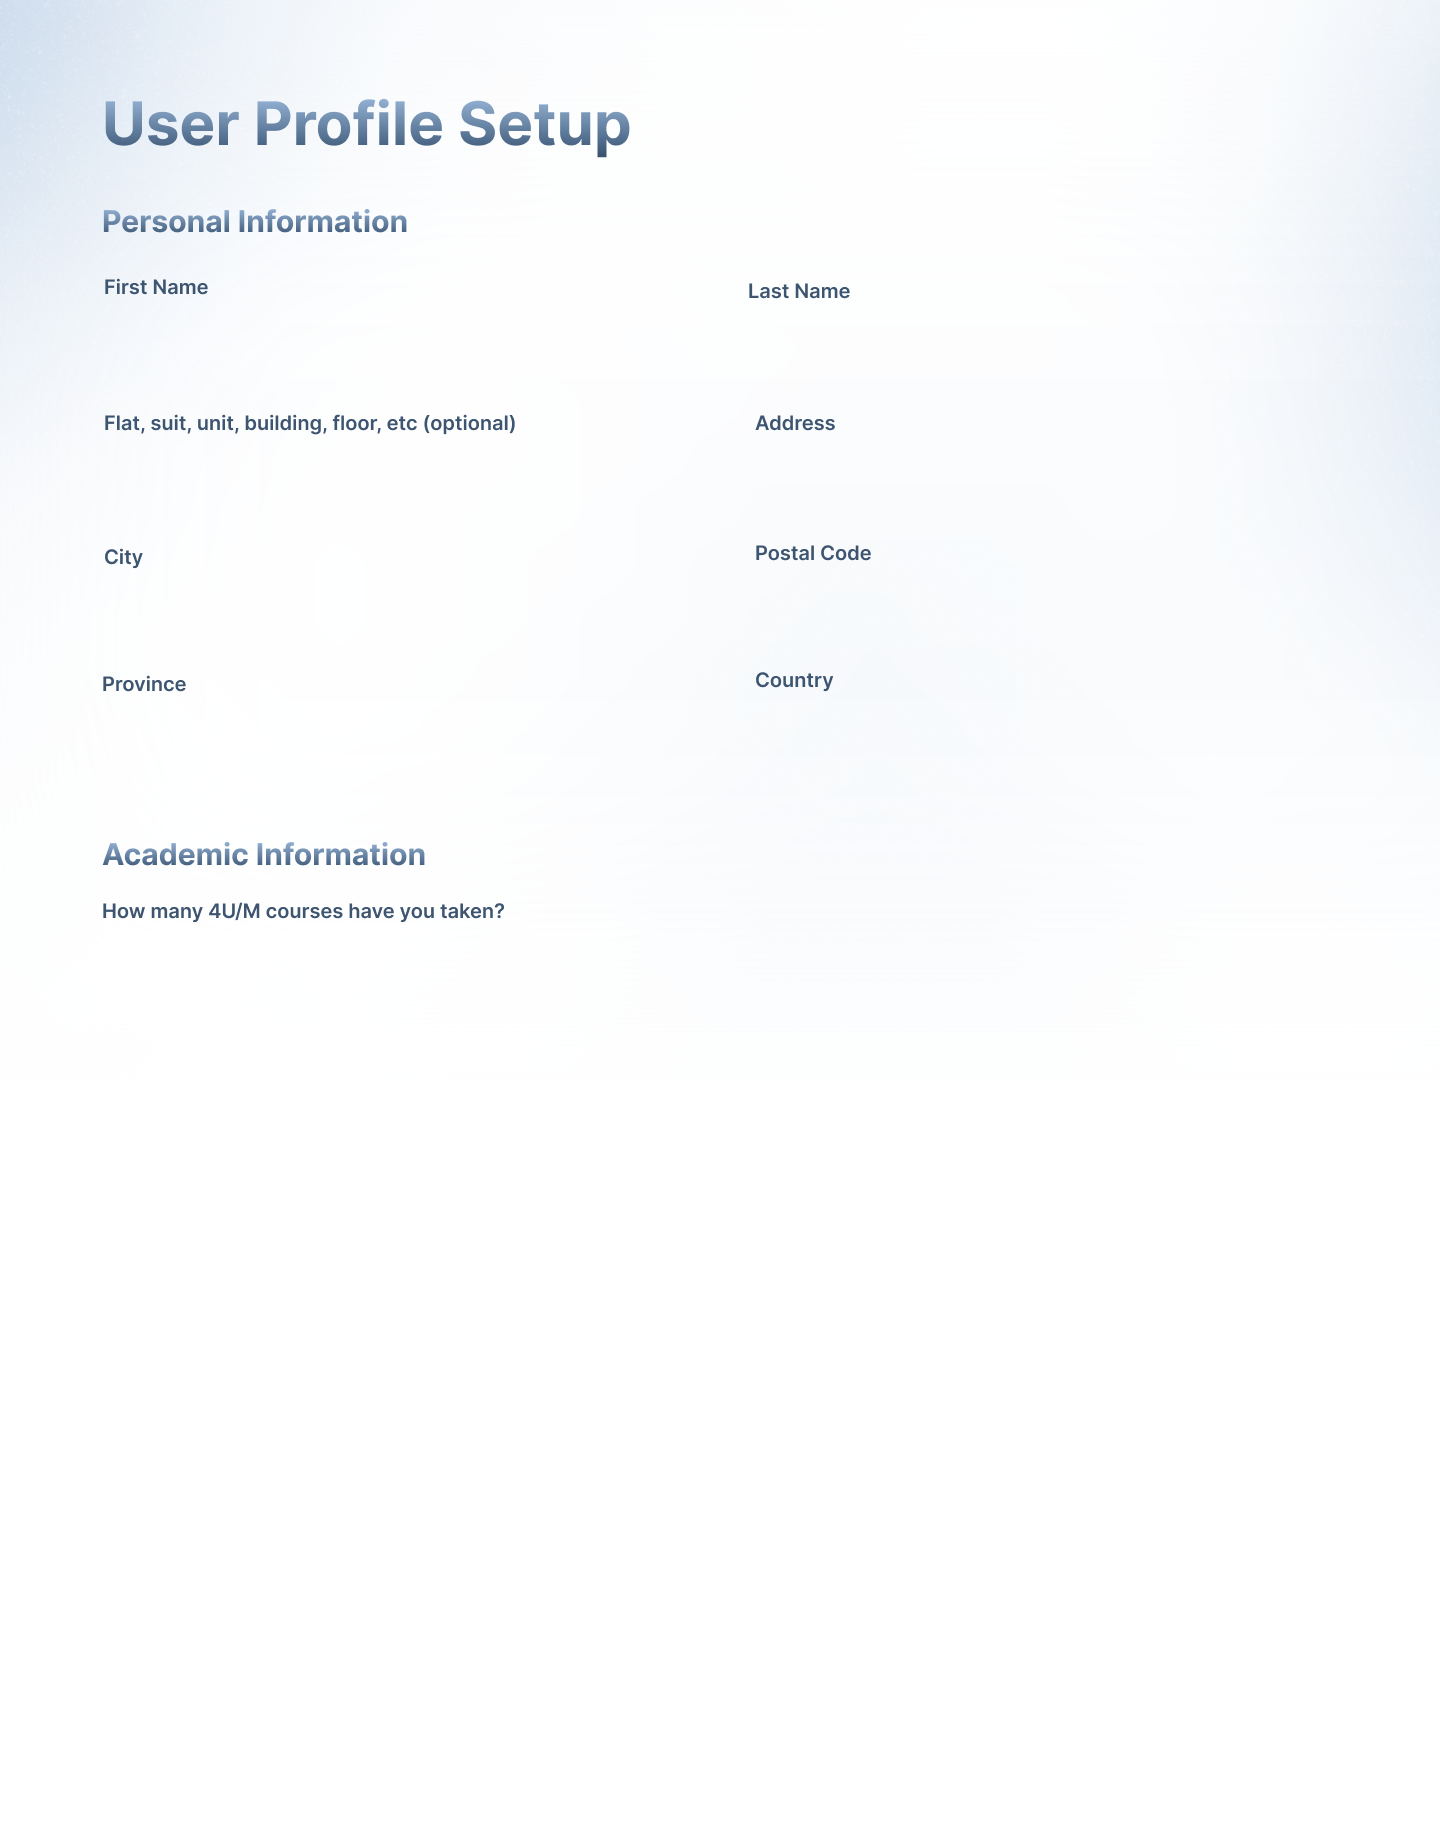
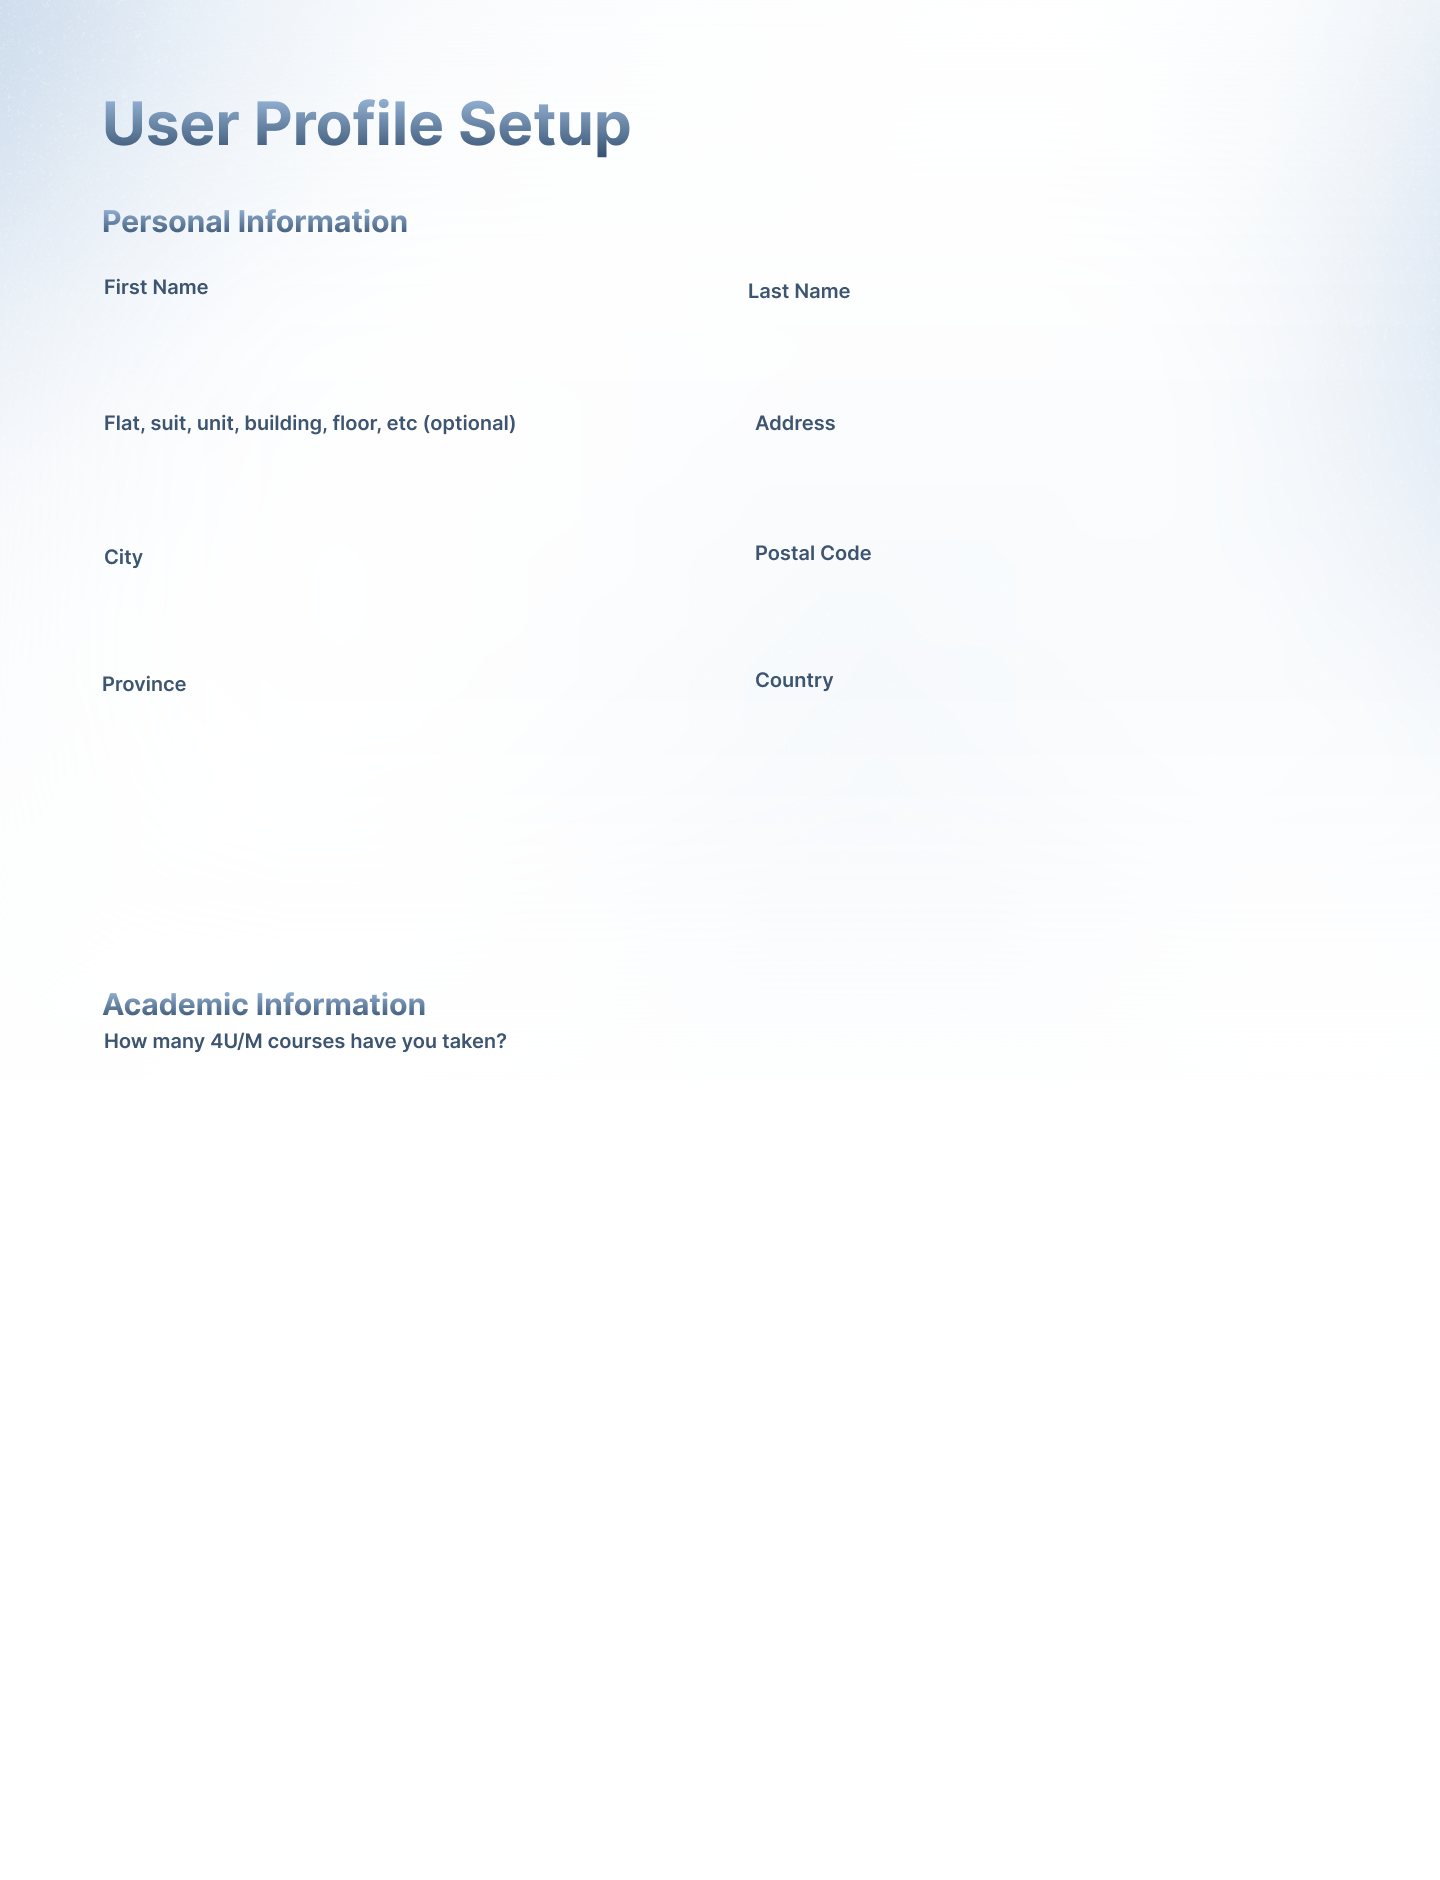
working course data

diff --git a/UniVerse/src/view/UserSetUpFrame.java b/UniVerse/src/view/UserSetUpFrame.java
@@ -2,11 +2,13 @@ package view;
 
 import java.awt.BorderLayout;
 import java.awt.Color;
+import java.awt.Component;
 import java.awt.Dimension;
 import java.awt.Font;
 import java.awt.GridLayout;
 import java.awt.event.ActionEvent;
 import java.awt.event.ActionListener;
+import java.util.ArrayList;
 import java.util.List;
 
 import javax.swing.ImageIcon;
@@ -18,6 +20,8 @@ import javax.swing.JOptionPane;
 import javax.swing.JPanel;
 import javax.swing.JScrollPane;
 import javax.swing.JTextField;
+
+import model.StudentData;
 
 public class UserSetUpFrame extends JFrame implements ActionListener {
 
@@ -33,12 +37,14 @@ public class UserSetUpFrame extends JFrame implements ActionListener {
 
 	// fields for user academic information
 
-    private JTextField numCoursesField;
-    private JButton confirmBtn;
-    private JButton submitCoursesBtn;
-    private JButton getStartedBtn;
-    private JLayeredPane layeredPane;
-    private JTextField lastGradeField; //used to track last grade field to add button dynamically
+	private JTextField numCoursesField;
+	private JButton confirmBtn;
+	private JButton submitCoursesBtn;
+	private JButton getStartedBtn;
+	private JLayeredPane layeredPane;
+	private JTextField courseCodeField;
+	private JTextField gradeField;
+	private JTextField lastGradeField; // used to track last grade field to add button dynamically
 
 	public UserSetUpFrame() {
 		super("User Set Up");
@@ -46,7 +52,7 @@ public class UserSetUpFrame extends JFrame implements ActionListener {
 		setSize(1440, 900);
 
 		// set the background image
-		ImageIcon backgroundImg = new ImageIcon("images/userProfileSetupBg.png");
+		ImageIcon backgroundImg = new ImageIcon("images/userProfileSetupBg2.png");
 		layeredPane = new JLayeredPane();
 		layeredPane.setPreferredSize(new Dimension(backgroundImg.getIconWidth(), backgroundImg.getIconHeight()));
 
@@ -55,8 +61,7 @@ public class UserSetUpFrame extends JFrame implements ActionListener {
 		Dimension imageSize = new Dimension(backgroundImg.getIconWidth(), backgroundImg.getIconHeight());
 		imageLabel.setPreferredSize(imageSize);
 
-		
-		//--- Personal Info
+		// --- Personal Info
 		// add first name text field
 		firstNameField = new JTextField(); // instantiate the JTextField
 		firstNameField.setBounds(100, 300, 500, 80);
@@ -112,26 +117,22 @@ public class UserSetUpFrame extends JFrame implements ActionListener {
 		countryField.addActionListener(this);
 		countryField.setBackground(Color.LIGHT_GRAY);
 		countryField.setFont(new Font("Arial", Font.PLAIN, 23));
-		
-		
-		//--- Academic Info
+
+		// --- Academic Info
 		numCoursesField = new JTextField();
-		numCoursesField.setBounds(100, 930, 200, 80);;
+		numCoursesField.setBounds(100, 930, 200, 80);
 		numCoursesField.addActionListener(this);
 		numCoursesField.setBackground(Color.LIGHT_GRAY);
 		numCoursesField.setFont(new Font("Arial", Font.PLAIN, 23));
 
-		
-        ImageIcon confirmIcon = new ImageIcon("images/confirmBtn.png");
-        confirmBtn = new JButton(confirmIcon);
-        confirmBtn.setOpaque(false);
-        confirmBtn.setContentAreaFilled(false);
-        confirmBtn.setBorderPainted(false);
-        confirmBtn.setBounds(320, 940, confirmIcon.getIconWidth(), confirmIcon.getIconHeight());
-        confirmBtn.addActionListener(this);
-		
-		
-		
+		ImageIcon confirmIcon = new ImageIcon("images/confirmBtn.png");
+		confirmBtn = new JButton(confirmIcon);
+		confirmBtn.setOpaque(false);
+		confirmBtn.setContentAreaFilled(false);
+		confirmBtn.setBorderPainted(false);
+		confirmBtn.setBounds(320, 940, confirmIcon.getIconWidth(), confirmIcon.getIconHeight());
+		confirmBtn.addActionListener(this);
+
 		// add components to the layered pane
 		layeredPane.add(imageLabel, Integer.valueOf(0));
 		layeredPane.add(firstNameField, Integer.valueOf(1));
@@ -144,7 +145,6 @@ public class UserSetUpFrame extends JFrame implements ActionListener {
 		layeredPane.add(countryField, Integer.valueOf(1));
 		layeredPane.add(numCoursesField, Integer.valueOf(1));
 		layeredPane.add(confirmBtn, Integer.valueOf(1));
-		
 
 		// add layered pane to scroll pane
 		JScrollPane jsp = new JScrollPane(layeredPane);
@@ -156,92 +156,142 @@ public class UserSetUpFrame extends JFrame implements ActionListener {
 
 		// set frame visible
 		setVisible(true);
-		
-
 
 	}
 
-    @Override
-    public void actionPerformed(ActionEvent e) {
-        if (e.getSource() == confirmBtn) {
-            try {
-                int numCourses = Integer.parseInt(numCoursesField.getText().trim());
-                createCourseFields(numCourses);
-            } catch (NumberFormatException ex) {
-                JOptionPane.showMessageDialog(this, "Please enter a valid number.");
-            }
-        }
-        
-        else if(e.getSource() == getStartedBtn) {
-        	//get the data from text fields
-        	String dataFirstName = firstNameField.getText().trim();
-           	String dataLastName = lastNameField.getText().trim();
-           	String dataUnit = unitField.getText().trim();
-           	String dataAddress = addressField.getText().trim();
-           	String dataCity = cityField.getText().trim();
-           	String dataPostalCode = postalCodeField.getText().trim();
-           	String dataProvince = provinceField.getText().trim();
-           	String dataCountry = countryField.getText().trim();
-        	
+	private List<StudentData> studentDataList = new ArrayList<>();
 
+	private void collectAndDisplayCourseData() {
+		// Collect and display course data
+		StudentData studentData = new StudentData();
+		JTextField courseCodeField = null;
+		for (Component component : layeredPane.getComponentsInLayer(Integer.valueOf(1))) {
+			if (component instanceof JTextField) {
+				JTextField textField = (JTextField) component;
+				String text = textField.getText().trim();
 
-        	
-        	
-        	//open home frame and close current frame
-        	new HomeFrame();
-        	dispose();
-        }
-    }
+				if (!text.isEmpty()) { // Check if the field is not empty
+					if (courseCodeField == null) {
+						// This is a course code field
+						studentData.setCourseCode(text);
+						courseCodeField = textField;
+					} else {
+						// pair it with the corresponding course code
+						studentData.setGrade(text);
 
+						// Add the studentData object to the list
+						studentDataList.add(studentData);
 
-	   private void createCourseFields(int numCourses) {
+						System.out.println(
+								"Course Code: " + studentData.getCourseCode() + ", Grade: " + studentData.getGrade());
 
-	        // add text fields for course code and grade dynamically
-	        for (int i = 0; i < numCourses; i++) {
-	            JTextField courseCodeField = new JTextField();
-	            JTextField gradeField = new JTextField();
+						// reset the courseCodeField for the next pair
+						courseCodeField = null;
+						studentData = new StudentData(); // Create a new StudentData object for the next pair
+					}
+				}
+			}
+		}
 
-	            int xCoordinate = 100;
-	            int yCoordinate = 1100 + i * 100; //create even spacing
+		// debug
+		System.out.println("Student Data List:");
+		for (StudentData data : studentDataList) {
+			System.out.println("Course Code: " + data.getCourseCode() + ", Grade: " + data.getGrade());
+		}
 
-	            JLabel courseCodeLabel = new JLabel("Course Code:");
-	            courseCodeLabel.setFont(new Font("Arial", Font.PLAIN, 20));
-	            courseCodeLabel.setBounds(xCoordinate, yCoordinate, 250, 50);
-	            layeredPane.add(courseCodeLabel, Integer.valueOf(1));
+		dispose();
+		// Open your next frame or perform any other necessary actions
+		new HomeFrame();
+	}
 
-	            courseCodeField.setBounds(xCoordinate + 150, yCoordinate, 200, 50);
-	            layeredPane.add(courseCodeField, Integer.valueOf(1));
+	@Override
+	public void actionPerformed(ActionEvent e) {
+		if (e.getSource() == confirmBtn) {
+			try {
+				int numCourses = Integer.parseInt(numCoursesField.getText().trim());
+				createCourseFields(numCourses);
+			} catch (NumberFormatException ex) {
+				JOptionPane.showMessageDialog(this, "Please enter a valid number.");
+			}
+		}
 
-	            JLabel gradeLabel = new JLabel("Grade:");
-	            gradeLabel.setFont(new Font("Arial", Font.PLAIN, 20));
-	            gradeLabel.setBounds(xCoordinate + 350, yCoordinate, 250, 50);
-	            layeredPane.add(gradeLabel, Integer.valueOf(1));
+		else if (e.getSource() == getStartedBtn) {
+			// get the data from text fields
+			String dataFirstName = firstNameField.getText().trim();
+			String dataLastName = lastNameField.getText().trim();
+			String dataUnit = unitField.getText().trim();
+			String dataAddress = addressField.getText().trim();
+			String dataCity = cityField.getText().trim();
+			String dataPostalCode = postalCodeField.getText().trim();
+			String dataProvince = provinceField.getText().trim();
+			String dataCountry = countryField.getText().trim();
 
-	            gradeField.setBounds(xCoordinate + 500, yCoordinate, 200, 50);
-	            layeredPane.add(gradeField, Integer.valueOf(1));
-	            
-	            lastGradeField = gradeField;
-	        }
-	        // place continue button below the last text field
-	        if (lastGradeField != null) {
-	            int buttonYCoordinate = lastGradeField.getY() + lastGradeField.getHeight() + 15; //15 is the spacing 
-	            ImageIcon getStartedIcon = new ImageIcon("images/getStartedBtn.png");
-	            getStartedBtn = new JButton(getStartedIcon);
-	            getStartedBtn.setOpaque(false);
-	            getStartedBtn.setContentAreaFilled(false);
-	            getStartedBtn.setBorderPainted(false);
-	            getStartedBtn.setBounds(320, buttonYCoordinate, getStartedIcon.getIconWidth(), getStartedIcon.getIconHeight());
-	            getStartedBtn.addActionListener(this);
-	            layeredPane.add(getStartedBtn, Integer.valueOf(1));
-	        }
+			// debugging
+			System.out.println("User Data:");
+			System.out.println("First Name: " + dataFirstName);
+			System.out.println("Last Name: " + dataLastName);
+			System.out.println("Unit: " + dataUnit);
+			System.out.println("Address: " + dataAddress);
+			System.out.println("City: " + dataCity);
+			System.out.println("Postal Code: " + dataPostalCode);
+			System.out.println("Province: " + dataProvince);
+			System.out.println("Country: " + dataCountry);
 
-	        // repaint the frame
-	        revalidate();
-	        repaint();
-	    }
+			collectAndDisplayCourseData();
 
+			// open home frame and close current frame
+			new HomeFrame();
+			dispose();
+		}
+	}
 
-	    
+	private void createCourseFields(int numCourses) {
+
+		// add text fields for course code and grade dynamically
+		for (int i = 0; i < numCourses; i++) {
+			courseCodeField = new JTextField();
+			gradeField = new JTextField();
+
+			int xCoordinate = 100;
+			int yCoordinate = 1100 + i * 100; // create even spacing
+
+			JLabel courseCodeLabel = new JLabel("Course Code:");
+			courseCodeLabel.setFont(new Font("Arial", Font.PLAIN, 20));
+			courseCodeLabel.setBounds(xCoordinate, yCoordinate, 250, 50);
+			layeredPane.add(courseCodeLabel, Integer.valueOf(1));
+
+			courseCodeField.setBounds(xCoordinate + 150, yCoordinate, 200, 50);
+			layeredPane.add(courseCodeField, Integer.valueOf(1));
+
+			JLabel gradeLabel = new JLabel("Grade:");
+			gradeLabel.setFont(new Font("Arial", Font.PLAIN, 20));
+			gradeLabel.setBounds(xCoordinate + 350, yCoordinate, 250, 50);
+			layeredPane.add(gradeLabel, Integer.valueOf(1));
+
+			gradeField.setBounds(xCoordinate + 500, yCoordinate, 200, 50);
+			layeredPane.add(gradeField, Integer.valueOf(1));
+
+			lastGradeField = gradeField;
+		}
+		// place continue button below the last text field
+		if (lastGradeField != null) {
+			int buttonYCoordinate = lastGradeField.getY() + lastGradeField.getHeight() + 15; // 15 is the spacing
+			ImageIcon getStartedIcon = new ImageIcon("images/getStartedBtn.png");
+			getStartedBtn = new JButton(getStartedIcon);
+			getStartedBtn.setOpaque(false);
+			getStartedBtn.setContentAreaFilled(false);
+			getStartedBtn.setBorderPainted(false);
+			getStartedBtn.setBounds(320, buttonYCoordinate, getStartedIcon.getIconWidth(),
+					getStartedIcon.getIconHeight());
+			getStartedBtn.addActionListener(this);
+			layeredPane.add(getStartedBtn, Integer.valueOf(1));
+		}
+
+		// repaint the frame
+		revalidate();
+		repaint();
+	}
+
 	public static void main(String[] args) {
 		new UserSetUpFrame();
 	}

diff --git a/UniVerse/src/model/StudentData.java b/UniVerse/src/model/StudentData.java
@@ -16,6 +16,9 @@ public class StudentData {
 	private String username;
 	private String password;
 	
+	private String courseCode;
+	private String grade;
+	
 
 
 	public String getFirstName() {
@@ -97,6 +100,22 @@ public class StudentData {
 
 	public void setPassword(String password) {
 		this.password = password;
+	}
+
+	public String getCourseCode() {
+		return courseCode;
+	}
+
+	public void setCourseCode(String courseCode) {
+		this.courseCode = courseCode;
+	}
+
+	public String getGrade() {
+		return grade;
+	}
+
+	public void setGrade(String grade) {
+		this.grade = grade;
 	}
 	
 	
